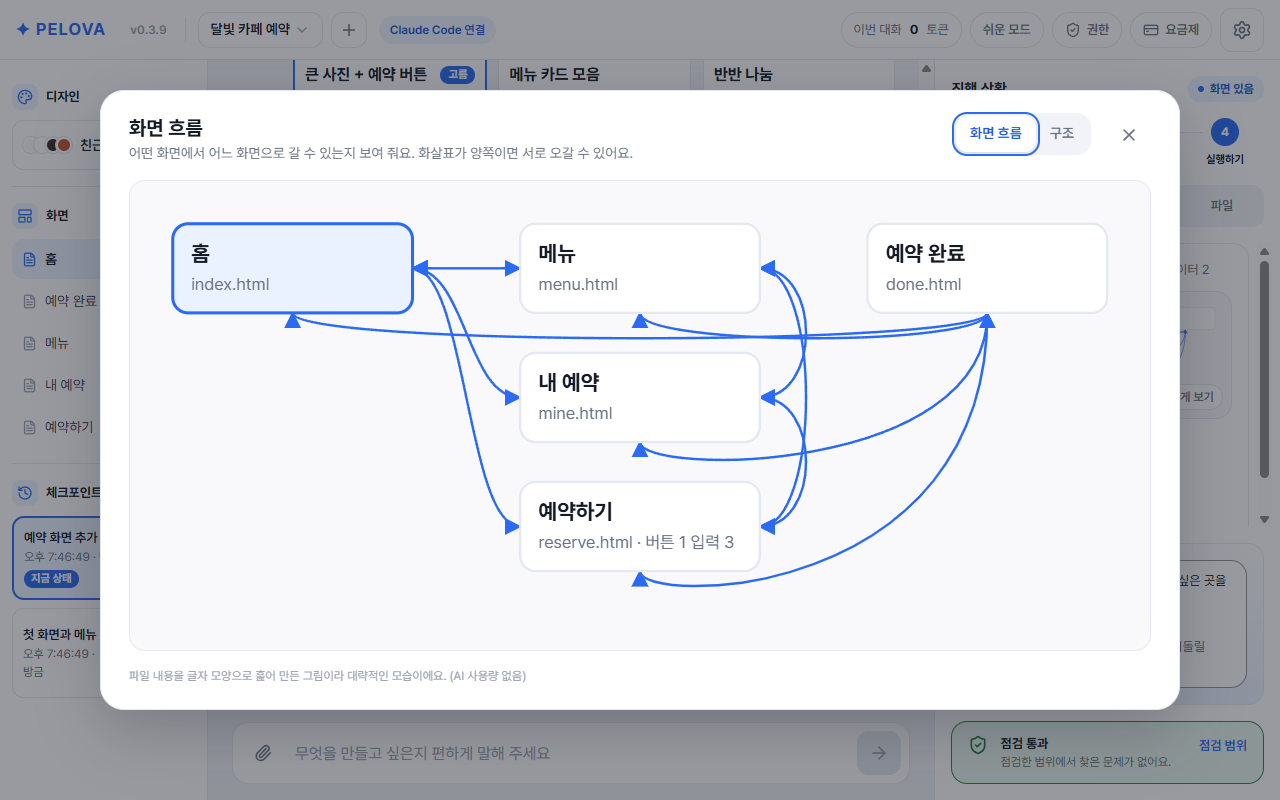
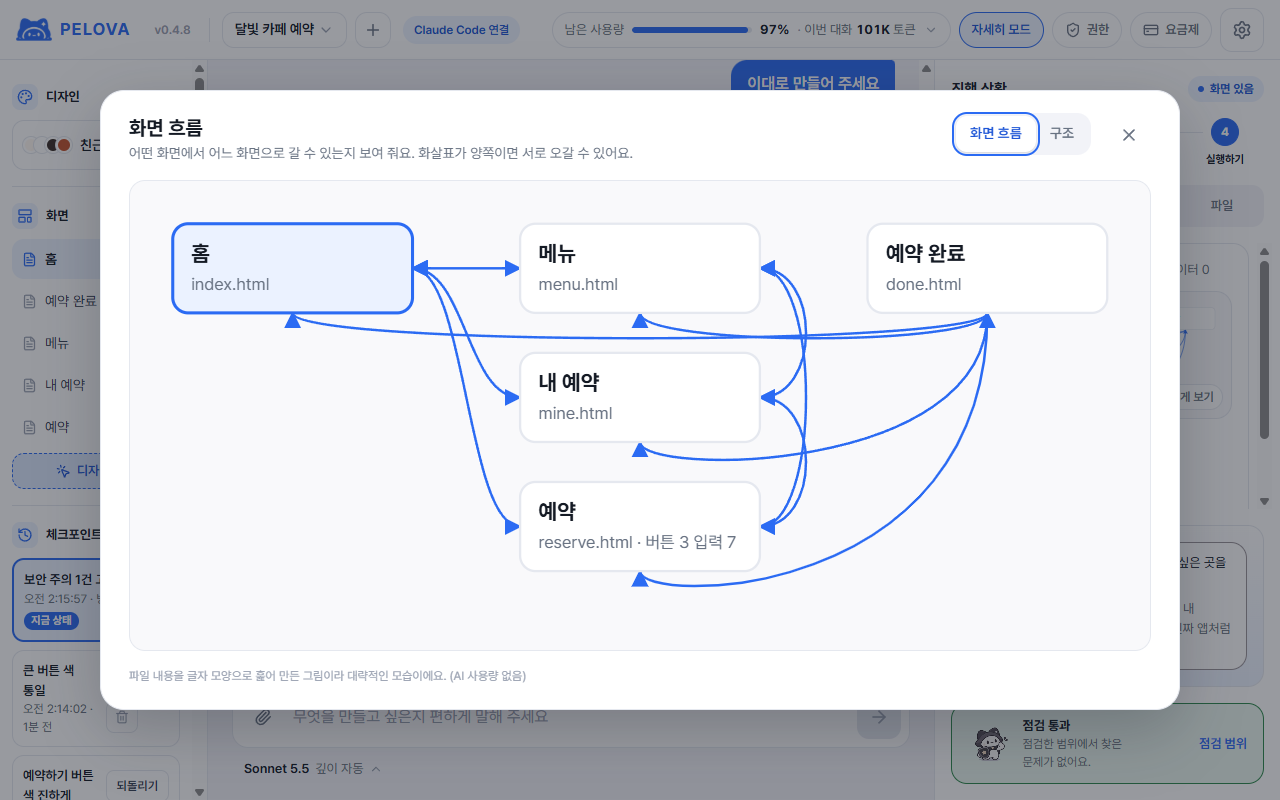
README: 지금 기능에 맞게 (GPT 연결, 로그인·DB, 웹에 올리기, 사용량, 무료 기간, 개발자용 MCP), 새 화면 사진

diff --git a/README.md b/README.md
@@ -6,10 +6,10 @@
 
 ### 정하고 나서 만드는 바이브코딩
 
-코드를 몰라도 괜찮아요. 펠로바가 하나씩 물어보고, 고른 대로 Claude와 함께 화면을 만들어요.<br />
+코드를 몰라도 괜찮아요. 펠로바가 하나씩 물어보고, 고른 대로 AI(Claude·GPT)와 함께 화면을 만들어요.<br />
 디자인 기준과 보안 점검은 기본으로 지켜요.
 
-[![최신 버전](https://img.shields.io/github/v/release/sangukjeon/pelova-releases?include_prereleases&label=%EC%B5%9C%EC%8B%A0%20%EB%B2%84%EC%A0%84&color=2B6BF3)](https://github.com/sangukjeon/pelova-releases/releases/latest)
+[![최신 버전](https://img.shields.io/github/v/release/sangukjeon/pelova-releases?label=%EC%B5%9C%EC%8B%A0%20%EB%B2%84%EC%A0%84&color=2B6BF3)](https://github.com/sangukjeon/pelova-releases/releases/latest)
 ![Windows 10·11](https://img.shields.io/badge/Windows-10%C2%B711%20(64%EB%B9%84%ED%8A%B8)-0078D4)
 ![macOS 11+](https://img.shields.io/badge/macOS-11%2B%20(Apple%20Silicon%C2%B7Intel)-555555)
 ![무료 미리보기](https://img.shields.io/badge/%EB%AC%B4%EB%A3%8C-%EB%AF%B8%EB%A6%AC%EB%B3%B4%EA%B8%B0-22A06B)
@@ -55,22 +55,26 @@ AI에게 "알아서 만들어 줘"라고 맡기면, 내가 원한 것과 다른 
 |:-:|---|---|
 | 1 | **하고 싶은 걸 한 줄로** | "카페 예약 앱 만들고 싶어요"처럼 편하게 적어요. 다른 곳에서 만들던 프로젝트를 가져와도 돼요 |
 | 2 | **선택지에서 골라요** | 분위기·배치·기능을 하나씩 정해요. 잘 모르면 추천대로 |
-| 3 | **펠로바가 만들어요** | 내 브라우저에서 바로 눌러 보며 "색을 더 밝게"처럼 말로 고쳐요 |
-| 4 | **점검 통과, 실행!** | 보안 점검을 통과하면 내 브라우저·휴대폰에서 열고, 원하는 폴더로 내보내요 |
+| 3 | **펠로바가 만들어요** | 내 브라우저에서 바로 눌러 보며 "색을 더 밝게"처럼 말로 고치거나, 화면에서 바꿀 곳을 눌러 골라요 |
+| 4 | **점검 통과, 실행!** | 보안 점검을 통과하면 내 브라우저·휴대폰에서 열고, 원하면 인터넷에 올려요 |
 
 ## 🧰 할 수 있는 것
 
-- 🎨 **선택지로 정하고 만들기** — 고른 디자인 기준(틀 6가지 또는 나만의 design.md)을 모든 화면에 똑같이 적용해요
-- 🛡 **보안 점검과 관문** — 비밀값·위험한 코드를 찾고 "한눈에 보기"로 요약해요. 꼭 고칠 문제가 있으면 실행이 잠겨요
+- 🎨 **선택지로 정하고 만들기** — 고른 디자인 기준(틀 6가지 또는 나만의 design.md)을 모든 화면에 똑같이 적용해요. PC 넓은 화면과 휴대폰 모두에 맞춰 만들어요
+- 🖱 **화면에서 골라 고치기** — 디자인 모드에서 바꾸고 싶은 곳을 눌러 메모를 남기면 그 부분만 고쳐요. 글자·순서 같은 간단한 것은 AI 없이 바로 고쳐요
+- 🛡 **보안 점검과 관문** — 비밀값·위험한 코드를 찾아 쉬운 말로 알려 줘요. 꼭 고칠 문제가 있으면 실행이 잠기고, "펠로바에게 고쳐 달라고 하기"로 바로 고쳐요
 - 📦 **가짜 패키지 확인** — AI가 지어낸 패키지 이름·오타를 찾아요 (확인할 때는 이름만 npm·PyPI에 보내요)
 - ⏪ **체크포인트·되돌리기** — 만들 때마다 저장되고, 몇 번 고치면 "실행해서 확인해 볼까요?"로 중간 확인을 권해요
 - ▶ **바로 실행** — 내 브라우저에서 열거나, 같은 와이파이의 휴대폰에서 QR 코드로 열어요
+- 🔑 **내 앱에 로그인·DB 붙이기** — 구글·카카오·깃허브 로그인과 여러 사람이 함께 쓰는 DB(Supabase)를 단계별 안내로 붙여요. 비밀 키는 받지 않아요
+- 🌍 **웹에 올리기** — 보안 점검을 통과한 앱을 GitHub Pages에 올려 주소로 공유해요
 - 🗺 **화면 흐름·아키텍처 보드** — 화면 흐름은 바로 그림으로, 더 깊은 구조는 AI가 아키텍처 보드로 그려요
 - 📁 **프로젝트 관리·가져오기** — 여러 프로젝트를 골라 열고, 다른 곳에서 만든 프로젝트를 **복사본** 또는 **원본에서 바로** 이어서 만들어요
-- 🧠 **모델·생각 깊이 고르기** — Opus·Sonnet·Fable·Haiku와 생각 깊이를 골라 사용량을 아껴요
+- 🧠 **모델·생각 깊이 고르기** — Claude(Opus·Sonnet·Fable·Haiku)나 GPT(Sol·Astra·Terra·Luna)와 생각 깊이를 골라 사용량을 아껴요
+- 📊 **사용량 보기** — 내 Claude 구독이 얼마나 남았는지(5시간·이번 주 한도)와 이번 대화에서 쓴 양을 위쪽 게이지에서 봐요
 - 🧩 **내 Claude 스킬** — Claude Code에 설치한 스킬 중 쓸 것만 골라 켜요
-- 💬 **편한 대화** — 대화 기록이 남고, Shift+Enter로 여러 줄을 적고, 답을 쓰는 동안 다음 메시지를 미리 적어 두고, 다른 창을 보고 있으면 알림으로 알려요
-- 🧭 **기능 둘러보기** — 처음 들어오면 펠로바가 버튼을 하나씩 비추며 무엇을 하는지 알려 줘요 (설정에서 다시 보기)
+- 💬 **편한 대화** — 대화 기록이 남고, Shift+Enter로 여러 줄을 적고, 답을 쓰는 동안 다음 메시지를 미리 적어 두고, 다른 창을 보고 있으면 알림으로 알려요 (무엇을 알릴지 설정에서 골라요)
+- 🧭 **기능 둘러보기** — 처음 들어오면 펠로바가 버튼을 하나씩 비추며 무엇을 하는지 알려 줘요 (설정 → 도움말에서 다시 보기)
 - 👤 **계정 (선택)** — 무료 기능은 로그인 없이. 프로를 쓸 때만 GitHub·Google로 로그인하고, 두 로그인을 하나로 연결할 수 있어요
 
 <table>
@@ -87,6 +91,7 @@ AI에게 "알아서 만들어 줘"라고 맡기면, 내가 원한 것과 다른 
 | 설치하고 AI 연결하기 | [설치하고 연결하기](https://www.pelova.kr/guide-install.html) |
 | 첫 앱 만들어 보기 | [첫 앱 만들기](https://www.pelova.kr/guide-first-app.html) |
 | 마음에 안 드는 변경 되돌리기 | [말로 고치고 되돌리기](https://www.pelova.kr/guide-edit.html) |
+| 로그인·DB 붙이기, 웹에 올리기 | [실행하고 내보내기](https://www.pelova.kr/guide-run.html) |
 | 로그인·프로·결제 | [계정·프로](https://www.pelova.kr/guide-workspace.html#account) |
 | 실행이 잠겼을 때 | [보안 점검·가짜 패키지](https://www.pelova.kr/guide-security.html) |
 | 안 될 때 | [이럴 땐 이렇게](https://www.pelova.kr/guide-trouble.html) |
@@ -126,28 +131,36 @@ AI에게 "알아서 만들어 줘"라고 맡기면, 내가 원한 것과 다른 
 | 방식 | 필요한 것 | 요금 |
 |---|---|---|
 | **내 Claude Code** | [Claude Code](https://code.claude.com/docs) 설치·로그인 | 내 Claude 구독 사용량 |
-| **내 API 키** | Anthropic API 키 ([Claude Console](https://console.anthropic.com/settings/keys)) | 쓴 만큼 내 Anthropic 계정 |
+| **내 API 키 (Claude)** | Anthropic API 키 ([Claude Console](https://console.anthropic.com/settings/keys)) | 쓴 만큼 내 Anthropic 계정 |
+| **내 API 키 (GPT)** | OpenAI API 키 ([OpenAI 대시보드](https://platform.openai.com/api-keys)) | 쓴 만큼 내 OpenAI 계정 (ChatGPT 구독과 따로) |
 | **연습 모드** | 없음 | 무료 (예시 답으로 둘러보기) |
 
 - API 키는 이 컴퓨터의 **자격 증명 저장소**(Windows 자격 증명 관리자·맥 키체인)에만 저장돼요. 펠로바 서버로 보내지 않아요.
 - 입력창 아래에서 **모델과 생각 깊이**를 고를 수 있어요. "자동"이면 연결한 계정의 기본 모델을 써요.
+- ChatGPT Plus·Pro **구독**으로 쓰는 방법(Codex 연결)은 준비 중이에요.
 
 ## 🔒 안전
 
 - **AI 권한** — 다른 폴더 읽기·인터넷·명령 실행을 직접 정하고, 필요할 때 "허락할까요?"로 물어봐요
 - **실행 전 확인** — 만든 앱은 이 컴퓨터에서만 열리는 주소로 열고, 휴대폰은 비밀 주소로 30분만 열려요. 꼭 고칠 보안 문제가 있으면 실행이 잠겨요
 - **가짜 패키지 확인** — 없는 패키지가 나오면 실행이 잠겨요
+- **비밀 키는 받지 않아요** — 로그인·DB를 붙일 때도 공개 키만 받고, 대화에 비밀 키를 붙여 넣으면 보내기 전에 막아요
 - **원본 보호** — 가져온 프로젝트는 기본으로 복사본을 고쳐요. 원본에서 바로 작업할 때도 처음 상태를 저장하고, `.git`은 고치지 않고, 폴더를 휴지통으로 보내지 않아요
 - **서명된 업데이트** — 펠로바 서명이 확인된 파일만 설치해요
 - 만든 앱과 대화는 **내 컴퓨터에만** 저장돼요. 보안 점검은 보증이 아니에요
 
 ## 💳 무료와 프로
 
-- **무료** — 선택지로 만들기, 디자인 틀 6가지, 보안 점검·관문, 체크포인트, 내 브라우저·휴대폰에서 열기, 가져오기·내보내기
-- **프로** — 무료의 모든 기능 + 아키텍처 보드, 나만의 design.md, 앞으로 생길 배포·UI 빌더. 가격은 [요금제](https://www.pelova.kr/pricing.html)를 보세요
+- **무료** — 선택지로 만들기, 디자인 틀 6가지, 보안 점검·관문, 체크포인트·되돌리기, 내 브라우저·휴대폰에서 열기, 가져오기·내보내기
+- **프로** — 무료의 모든 기능 + 나만의 design.md, 아키텍처 보드, 웹에 올리기(GitHub Pages), 화면에서 골라 고치기. 가격은 [요금제](https://www.pelova.kr/pricing.html)를 보세요
+- **2027년 2월 18일까지 프로가 무료예요.** 펠로바에서 로그인하고 요금제 창의 **무료로 프로 받기**를 누르면 바로 열려요
 - 결제는 **펠로바 앱 안에서만** 해요(결제대행 PayApp). 펠로바는 결제 정보나 휴대폰 번호를 받지 않아요
-- 정식 결제를 열기 전까지는 로그인하면 프로를 무료로 받을 수 있어요
-- AI 사용료는 따로 내 Claude 구독 또는 API 키에서 나가요
+- AI 사용료는 따로 내 Claude 구독 또는 API 키(Anthropic·OpenAI)에서 나가요
+
+## 🛠 개발자용 — 펠로바 MCP
+
+Claude Code·Cursor 같은 AI 코딩 에이전트에 펠로바의 **보안 점검·가짜 패키지 확인·체크포인트·디자인 기준**을 도구로 붙여요. 실행 파일 하나, 로그인 없이 무료예요.<br />
+설치 명령은 **[개발자용 페이지](https://www.pelova.kr/developers.html)** 에, 파일은 이 저장소의 `mcp-v<버전>` 배포판에 있어요.
 
 ## 🔄 업데이트
 
@@ -159,7 +172,7 @@ AI에게 "알아서 만들어 줘"라고 맡기면, 내가 원한 것과 다른 
 <div align="center">
 <sub>
 지금은 <b>개발 중인 미리보기 버전</b>이라 바뀌는 부분이 많아요.<br />
-이 저장소에는 설치 파일과 버전 정보만 있어요. 앱 소스 코드는 공개하지 않아요. 펠로바(PELOVA)는 가칭이에요.<br />
+이 저장소에는 설치 파일과 버전 정보만 있어요. 앱 소스 코드는 공개하지 않아요.<br />
 <a href="https://www.pelova.kr">www.pelova.kr</a>
 </sub>
 </div>
